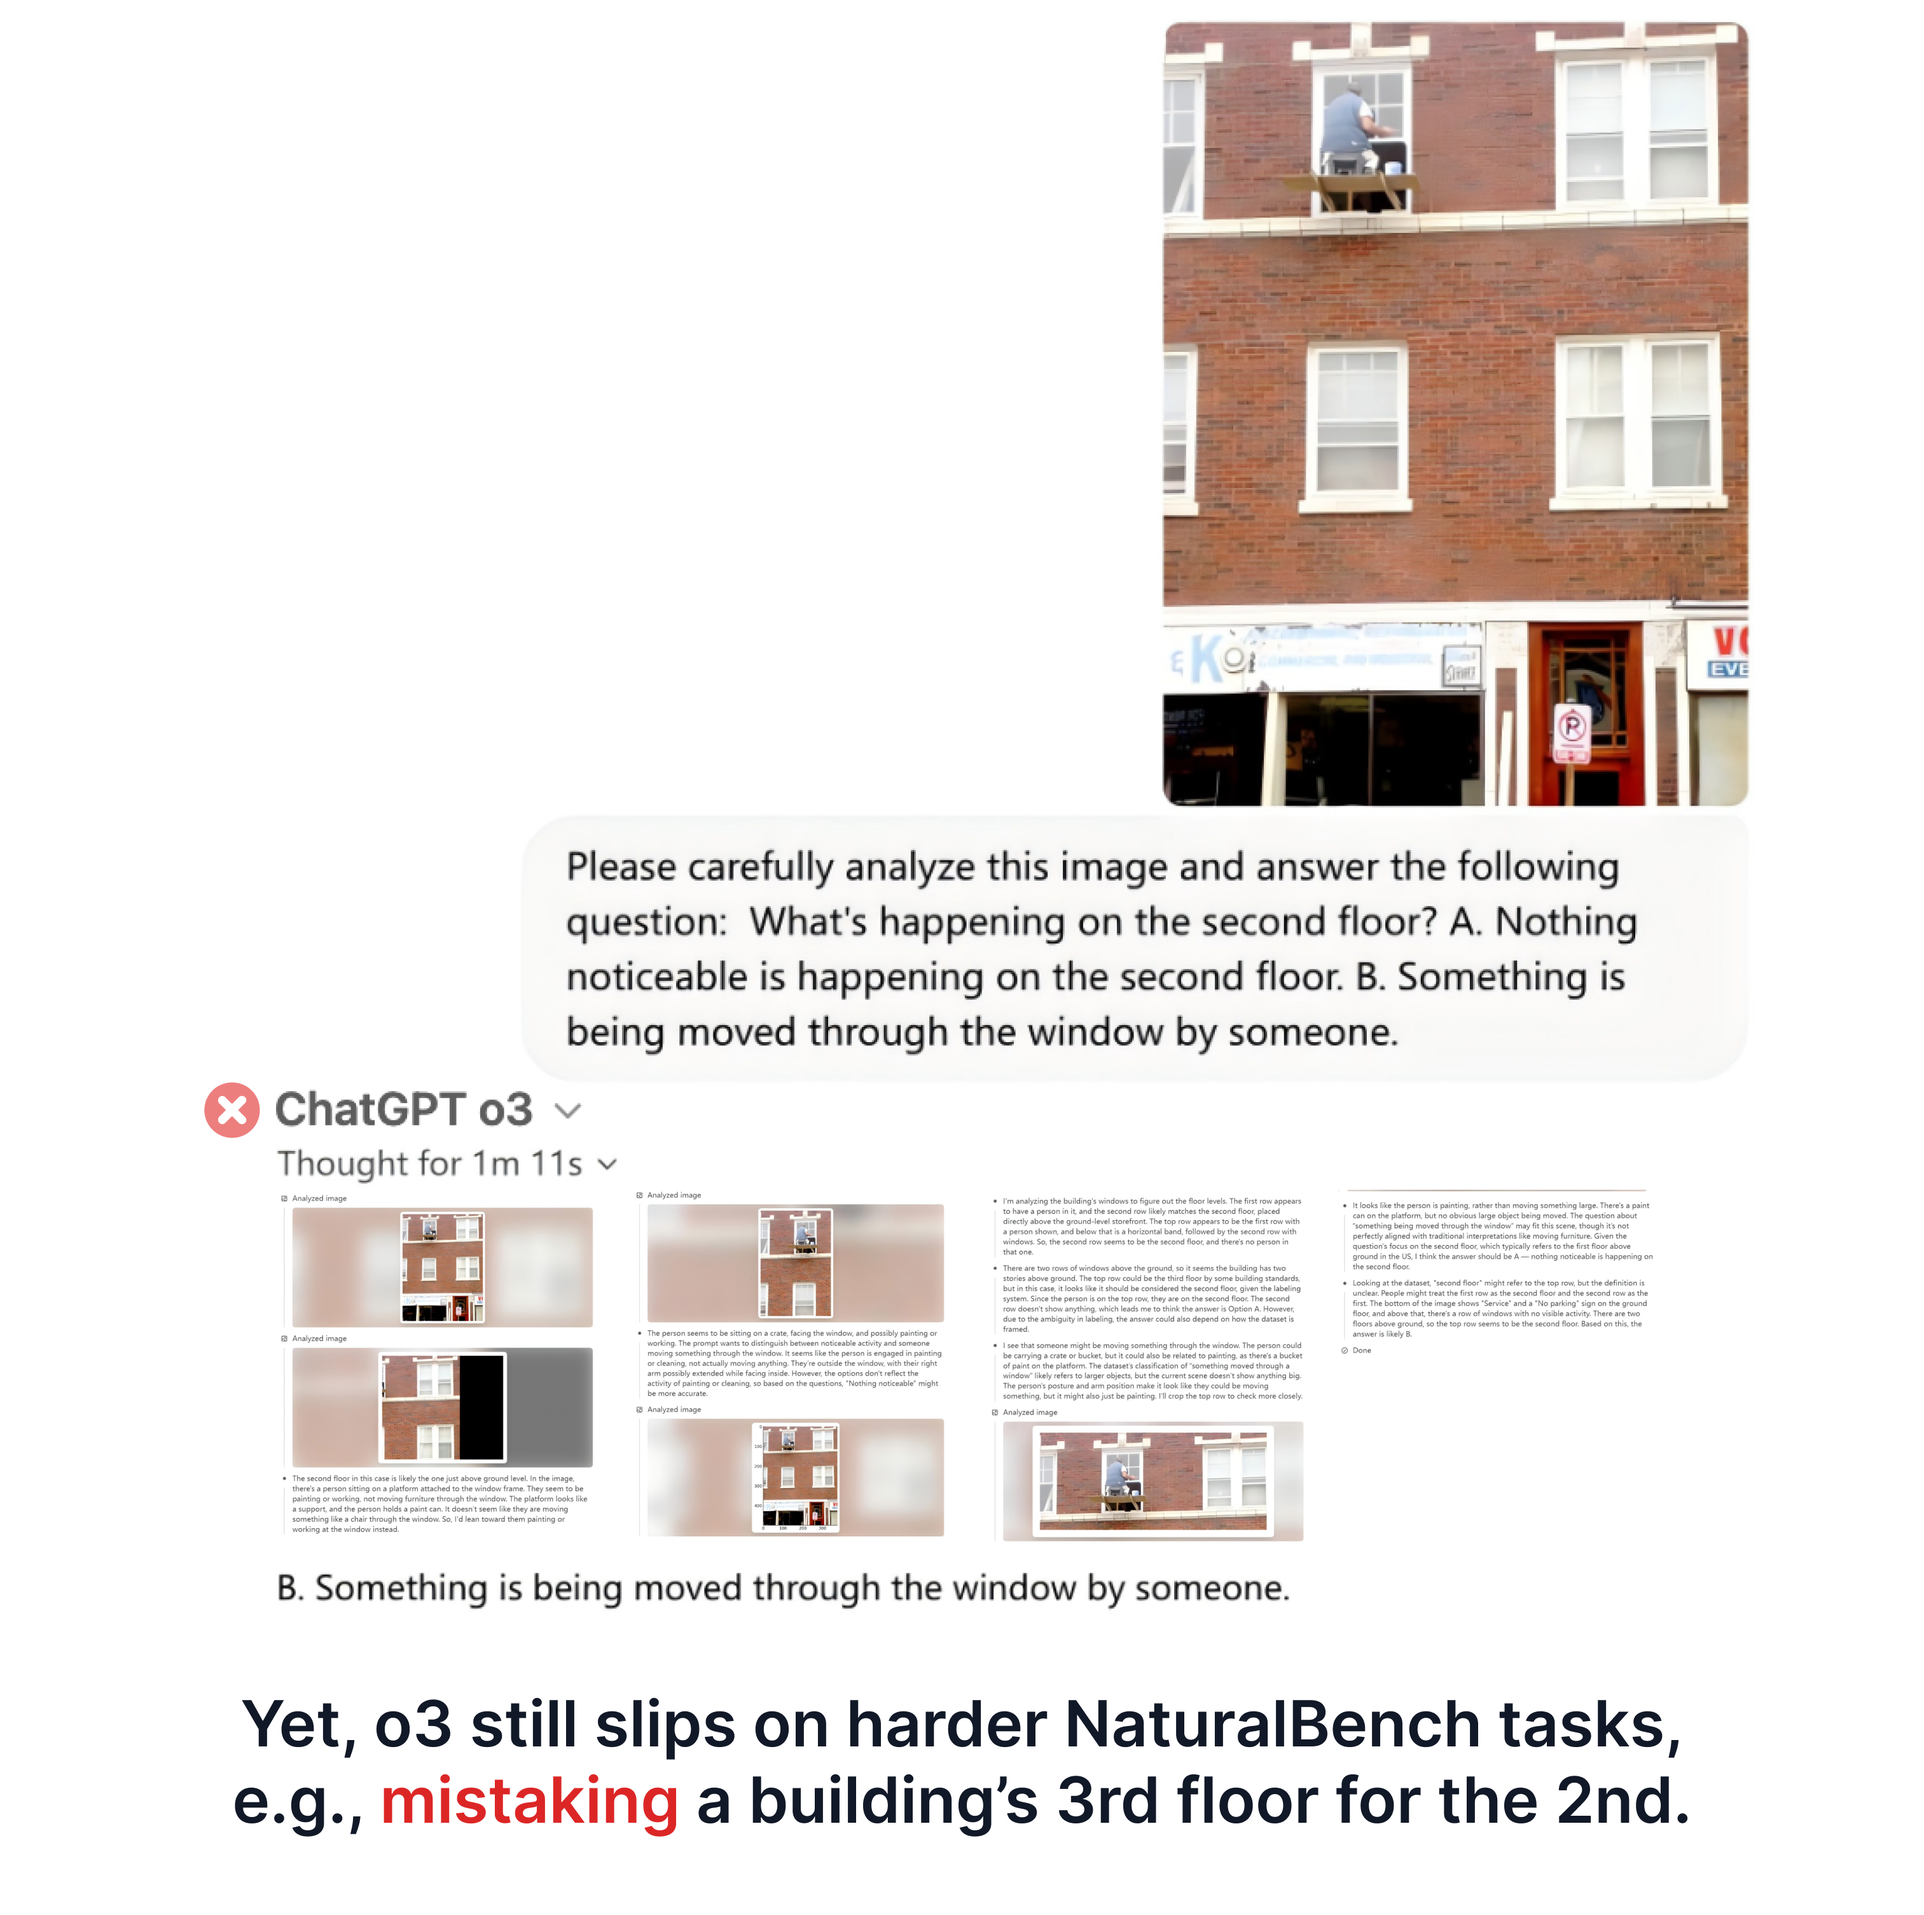
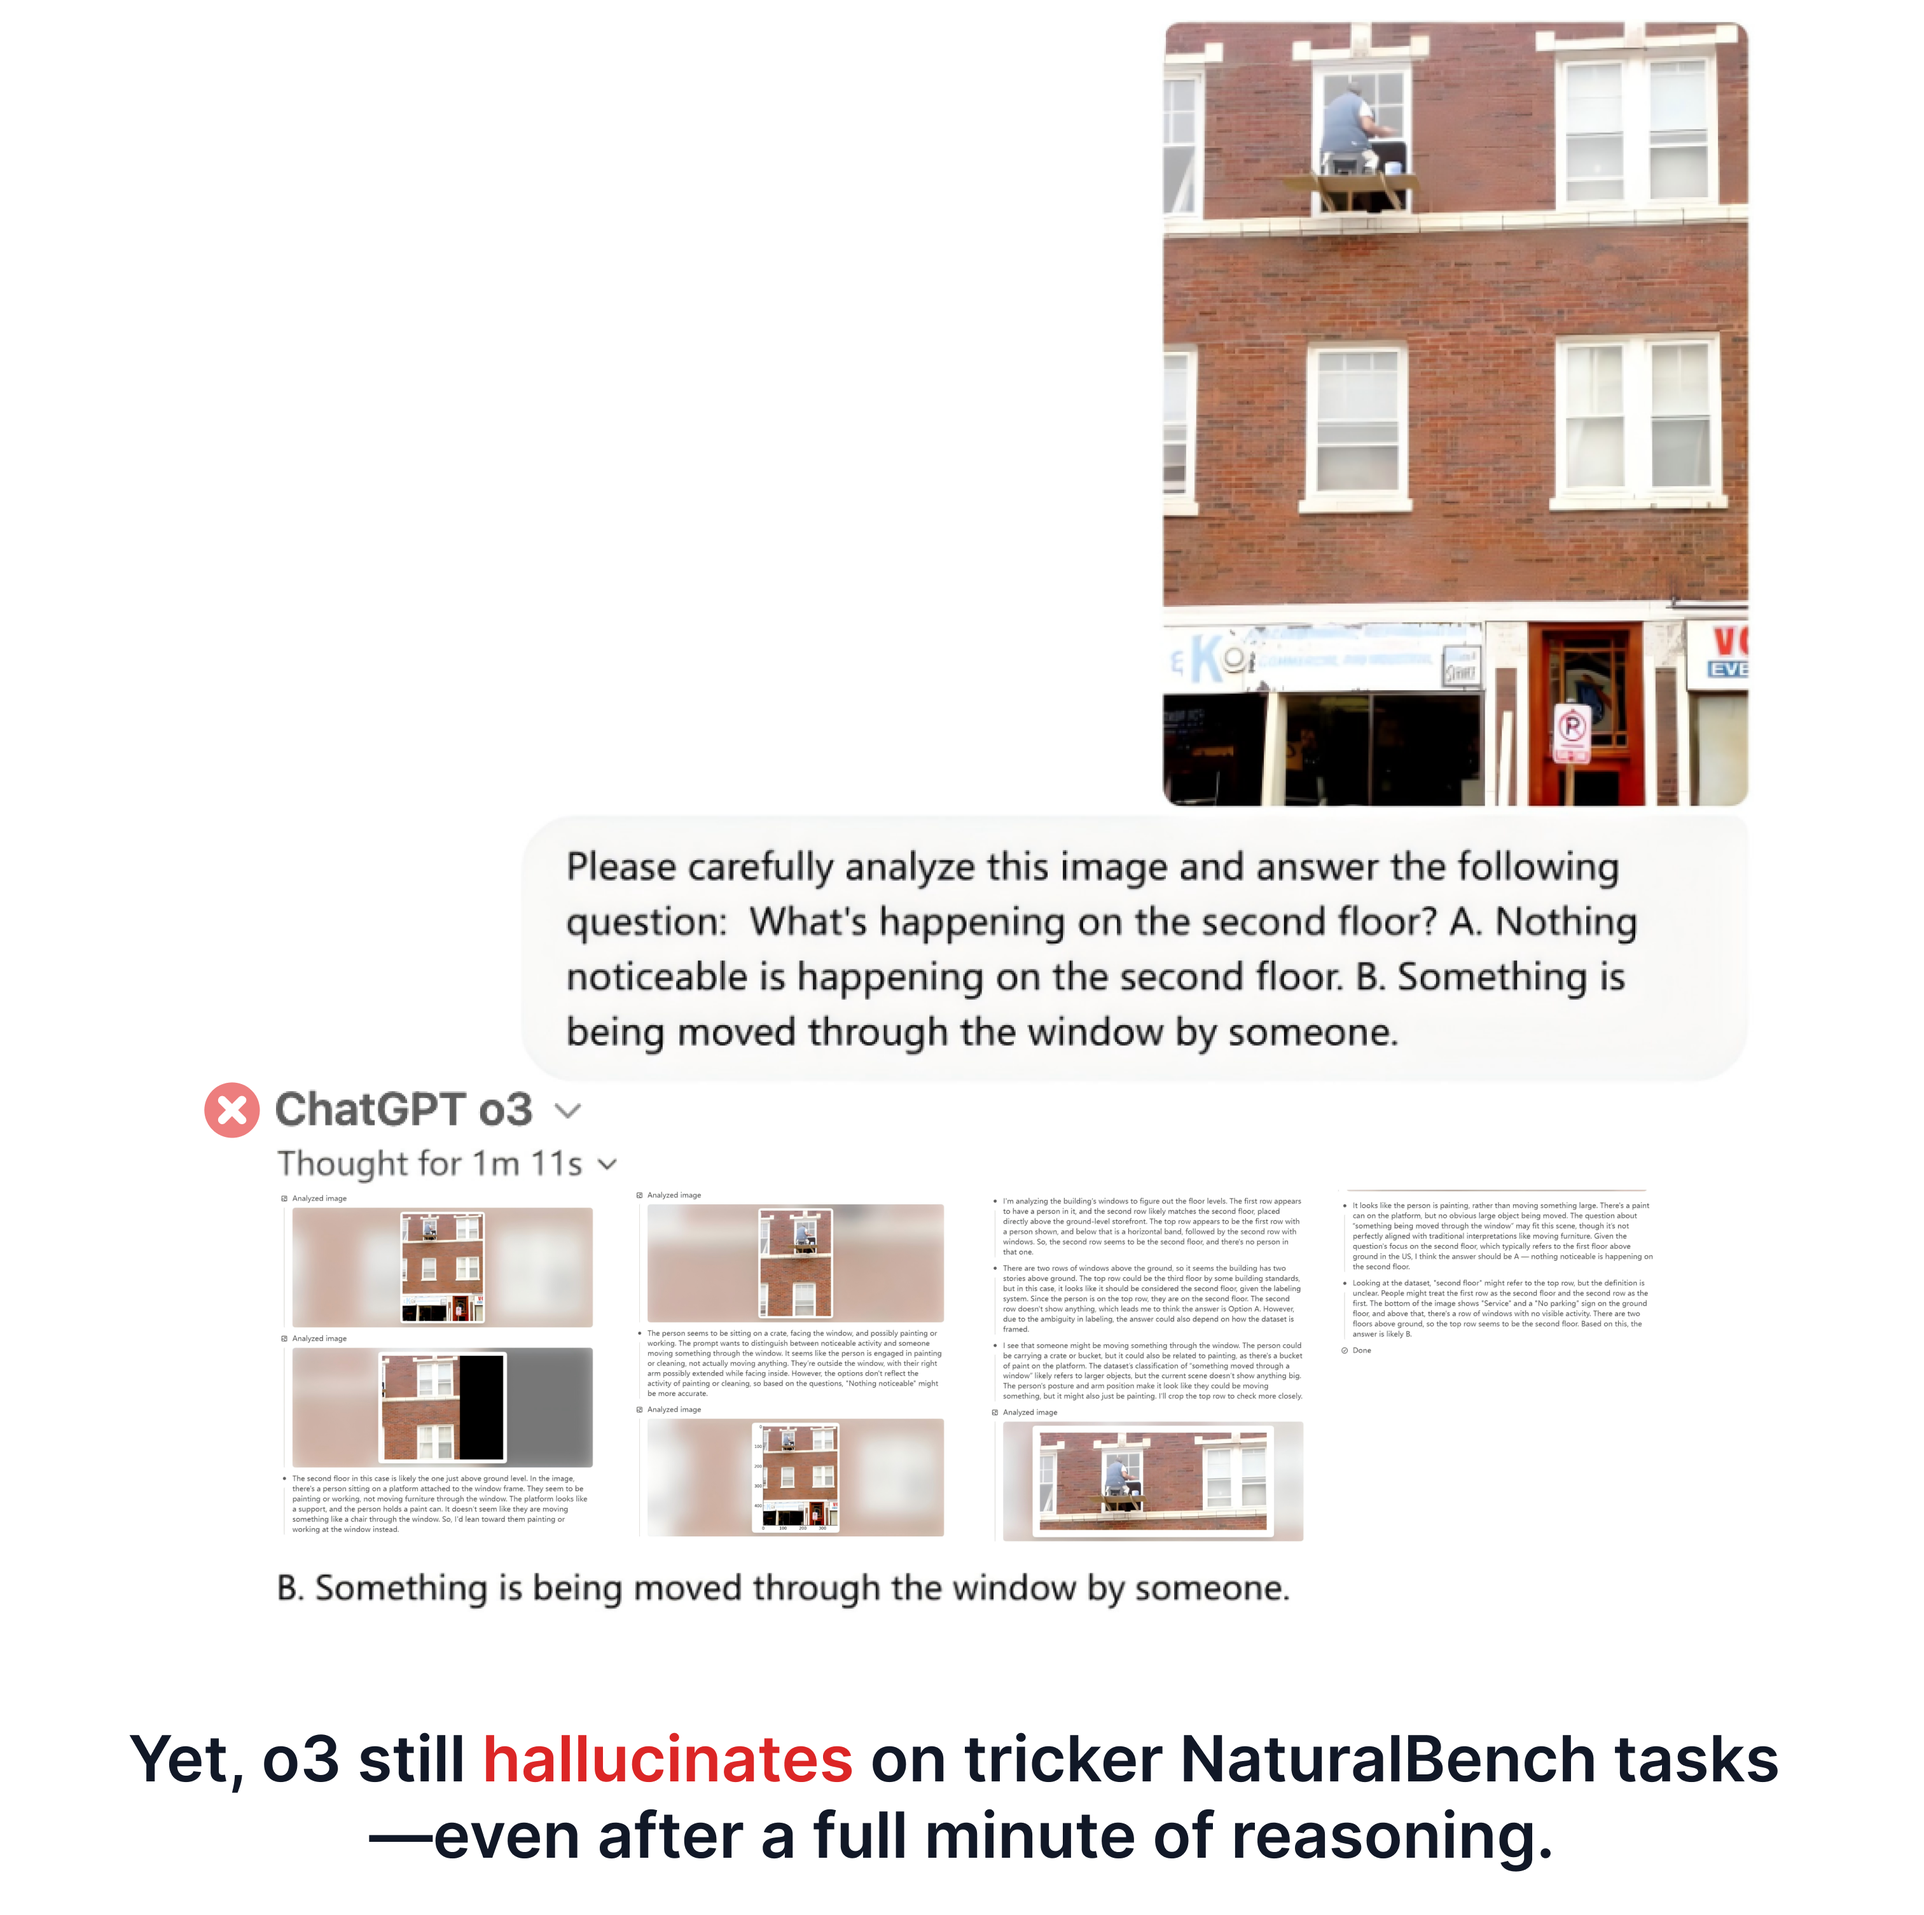
[add] camerabench

Changed region(s): [[0.0621, 0.8744, 0.9322, 0.9993]]

diff --git a/papers/naturalbench/index.html b/papers/naturalbench/index.html
@@ -144,7 +144,7 @@
             <p>
               Are large vision-language models (VLMs) truly effective? In this work, we show that popular VLMs still struggle with questions about natural images that humans can easily answer, which we term <b>natural adversarial samples</b>. Unlike previous VQA benchmarks such as MME that can be addressed by blind QA models, NaturalBench avoids such shortcuts by pairing each question with two images that yield different answers. We use a simple procedure to collect challenging VQA samples from natural image-text corpora (e.g., Flickr and DOCCI) using foundation models like CLIP and ChatGPT. We collect a new vision-centric VQA benchmark, <b>NaturalBench</b>, for reliably evaluating VLMs with 10,000 human-verified VQA samples. We note several interesting findings:
               <ol type="1">
-                <li><b>NaturalBench is hard</b>. <span style="font-size: 95%;">We evaluate 53 popular VLMs including BLIP-3, mPLUG-Owl2, InternLM-XC2, LLaVA-OneVision, Llama3.2, InternVL2, Cambrain-1, Qwen2-VL, and Molmo. Most of them only achieve 1%-20% above random chance performance. Even the best (closed-source) GPT-4o lags 50% behind human performance (which is above 90%). </span></li>
+                <li><b>NaturalBench is hard</b>. <span style="font-size: 95%;">We evaluate 55 popular VLMs including BLIP-3, mPLUG-Owl2, InternLM-XC2, LLaVA-OneVision, Llama3.2, InternVL2, Cambrain-1, Qwen2-VL, and Molmo. Most of them only achieve 1%-20% above random chance performance. Even the best (closed-source) GPT-o3 and GPT-4o lags 40%-50% behind human performance (which is above 90%). </span></li>
                 <li><b>NaturalBench is compositional</b>. <span style="font-size: 95%;">NaturalBench requires diverse visio-linguistic skills, including understanding attribute bindings, object relationships, and advanced reasoning like logic and counting. Unlike previous work that uses a single tag per sample, we tag each NaturalBench sample with 1 to 8 skill tags for more fine-grained evaluation. </li>
                 <li><b>NaturalBench exposes significant biases in VLMs</b>. <span style="font-size: 95%;">Most VLMs choose the same answer regardless of the input image (or question). We show that debiasing can be crucial for better performance.  </span></li>
               </ol>
@@ -246,7 +246,7 @@
           <div class="content has-text-justified">
 
           <p style="text-align: justify; font-size: 16px; line-height: 1.5; margin-top: 10px; color: #333;">
-            We now show that NaturalBench poses a significant challenge to 53 state-of-the-art VLMs. To better understand model performance, beyond binary VQA accuracy (<b>Acc</b>), we introduce three metrics based on NaturalBench's paired image-question format.
+            We now show that NaturalBench poses a significant challenge to 55 state-of-the-art VLMs. To better understand model performance, beyond binary VQA accuracy (<b>Acc</b>), we introduce three metrics based on NaturalBench's paired image-question format.
 
             <ul> <li><b>Question Accuracy (Q-Acc):</b> Awards a point only if a model correctly answers a question for both images.</li> <li><b>Image Accuracy (I-Acc):</b> Awards a point when a model correctly answers both questions for an image.</li> <li><b>Group Accuracy (G-Acc):</b> Awards a point only when a model correctly answers all four (image, question) pairs in a test sample.</li> </ul>
             Below, we present the performance of VLMs across these metrics. We also highlight the performance gap (in terms of G-Acc) compared to humans in <span style="color: red;">red</span>:
@@ -366,7 +366,7 @@
             </div>
 
             <p style="text-align: justify; font-size: 16px; line-height: 1.5; margin-top: 10px; color: #333;">
-              However, visual reasoning is not solved yet. We show that GPT-o3 can still make simple mistakes: For example, after a full minute of analysis, o3 still mistakes a building’s 3rd floor for the 2nd.
+              However, visual reasoning is not solved yet. We show that GPT-o3 can still make simple mistakes even after a full minute of reasoning--hallucinating something being moved while nothing is happening.
             </p>
             <div style="display: flex; justify-content: center; align-items: center;">
               <img src="images/gpt_o3_failure.png" alt="Image illustrating GPT-o3 Failures">
